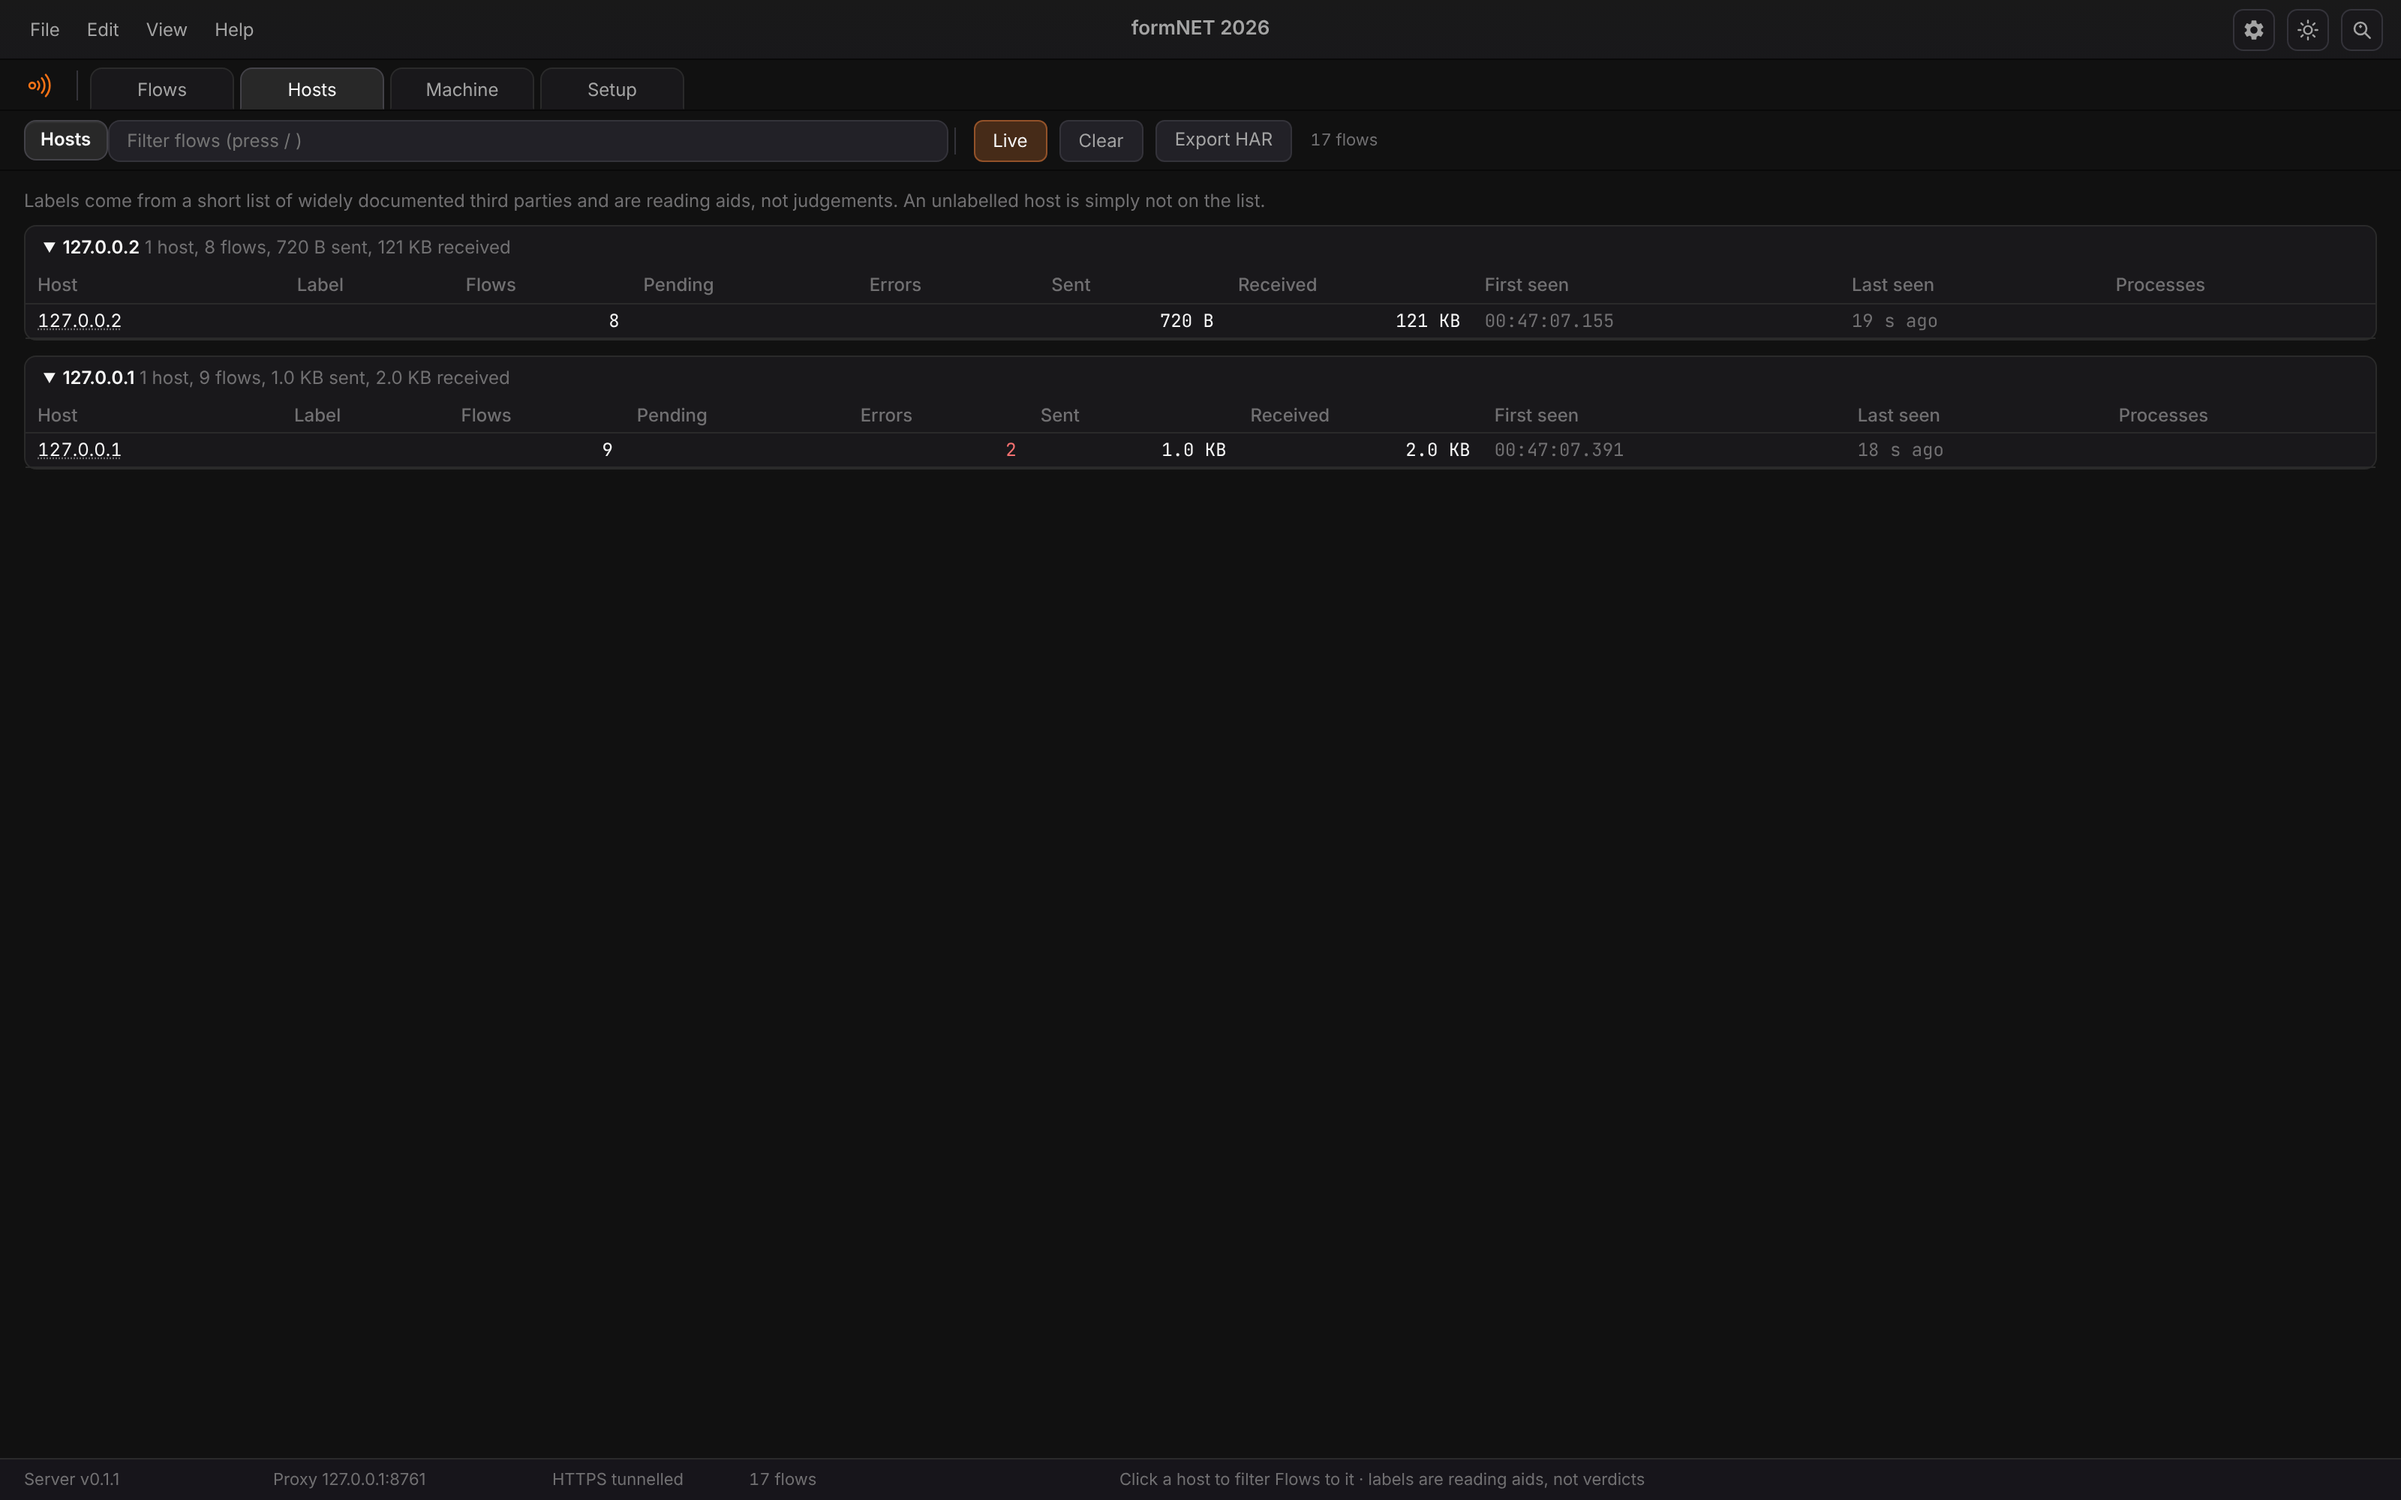
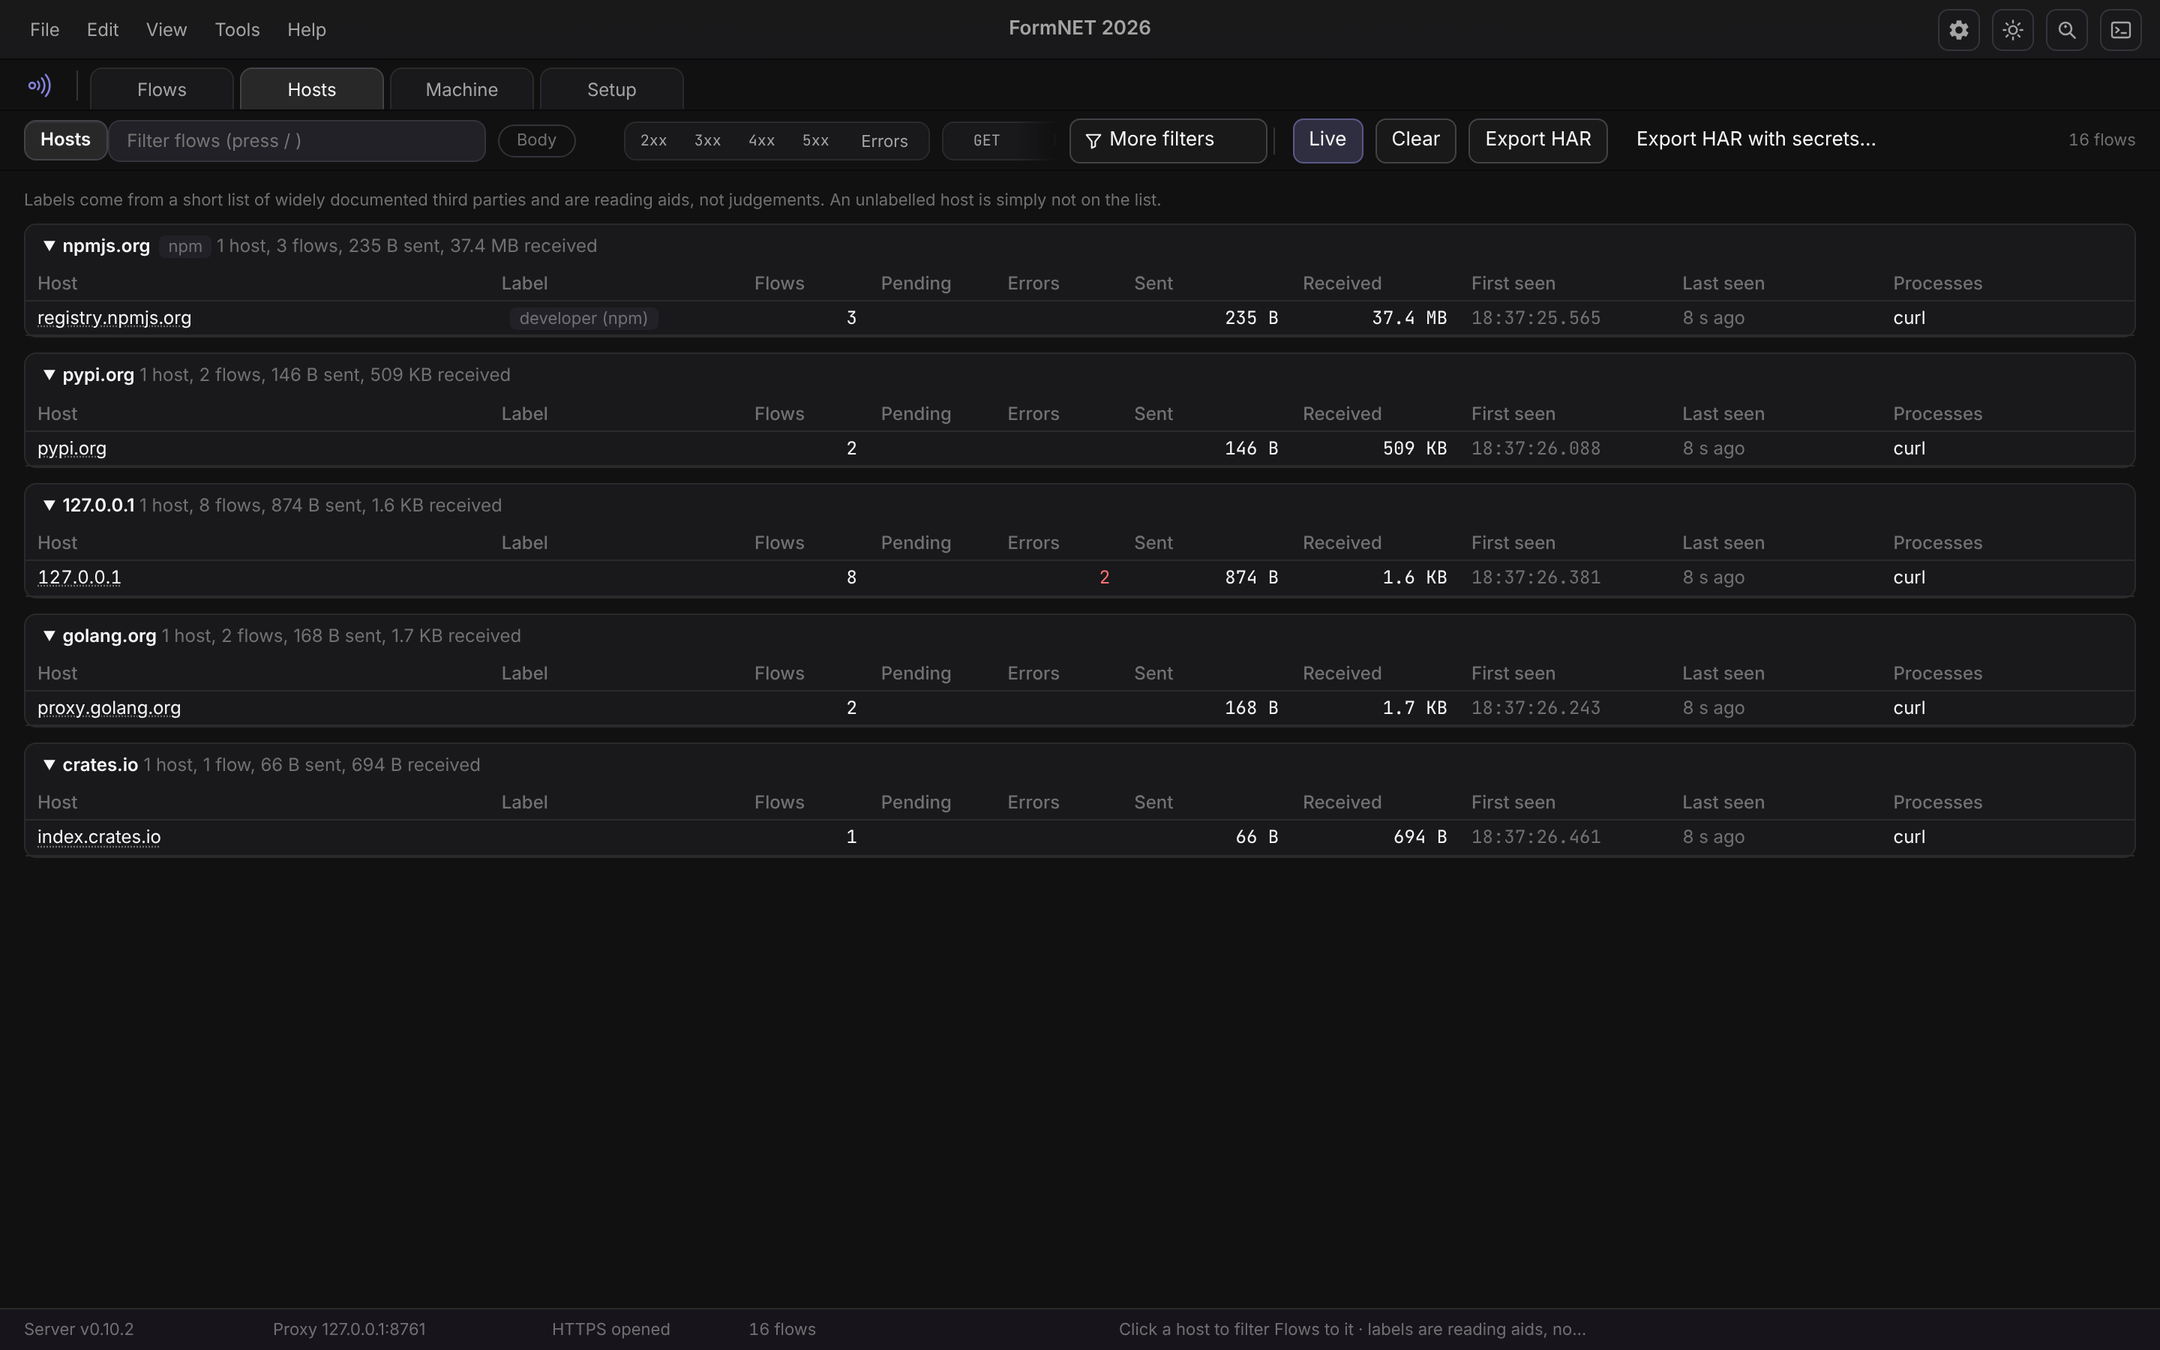
docs: the README pictures show FormNET as it is now
The three screenshots are retaken from this version (Flows with a POST
in the detail pane, a 500 response, Hosts) in the purple accent with
the current options bar, replacing pictures of 0.1.1. The hero's
description says what it now shows.

diff --git a/README.md b/README.md
@@ -27,7 +27,7 @@
 <br>
 
 <p align="center">
-  <img src="docs/images/formnet-hero.png" alt="FormNET Flows view: a table of local HTTP requests with status, size and timing, and the request headers and JSON body of a POST in the detail pane" width="100%">
+  <img src="docs/images/formnet-hero.png" alt="FormNET Flows view: requests from curl to package registries and a local shop API with process, status, type and size, and the request headers and JSON body of a POST in the detail pane" width="100%">
   <br>
   <sub>Live flows through the proxy, with the selected request's headers and body.</sub>
 </p>
